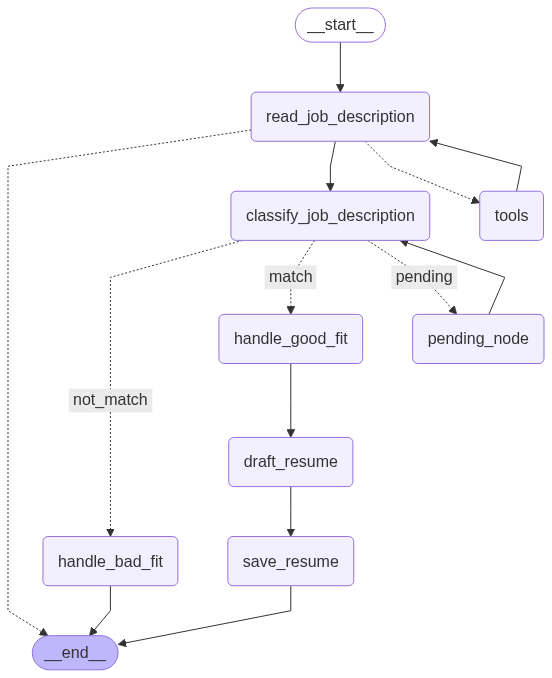
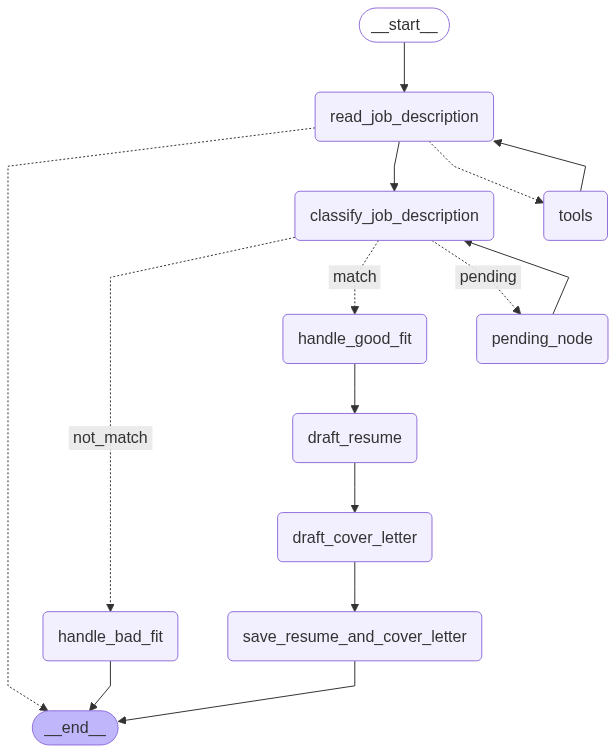
add cover letter drafting, remove markdownify mcp client connection

diff --git a/agents/job_finder.py b/agents/job_finder.py
@@ -43,6 +43,7 @@ class JobState(TypedDict):
     job_description: Optional[str]
     is_match: Optional[bool]
     resume_draft: Optional[str]
+    cover_letter_draft: Optional[str]
     messages: Annotated[list[AnyMessage], add_messages]
 
 
@@ -145,50 +146,94 @@ async def route_job(state: JobState) -> str:
 async def draft_resume(state: JobState, llm: ChatOpenAI, resume_text: str):
     """Draft a Modification of Provided Resume for the Specific Job Description."""
 
-    print(f"Drafting a custom resume for the job seeker based on the job description and provided resume content.")
-    job_description = state["job_description"]
+    if 'resume_draft' not in state:
+        print(f"Drafting a custom resume for the job seeker based on the job description and provided resume content.")
+        job_description = state["job_description"]
 
-    prompt = f"""
-        You are an experienced job placement recruiter.  You are provided with a specific job description, and a job seeker's starting resume.  Make modifications to tailor the provided resume content with skills or interests that better match the provided job description.
+        prompt = f"""
+            You are an experienced job placement recruiter.  You are provided with a specific job description, and a job seeker's starting resume.  Make modifications to tailor the provided resume content with skills or interests that better match the provided job description.
+            
+            Job Description: {job_description}
+            Resume Content: {resume_text}
+
+            The final answer is the tailored resume.  Return only the final answer.\n\n\n\n
+        """
+
+        messages = [HumanMessage(content=prompt)]
+        response = await llm.ainvoke(messages)
+
+        if response.content:
+            return {
+                "resume_draft": response.content.lstrip("```markdown\n").rstrip("\n```"),
+            }
         
-        Job Description: {job_description}
-        Resume Content: {resume_text}
-
-        The final answer is the tailored resume.  Return only the final answer.\n\n\n\n
-    """
-
-    messages = [HumanMessage(content=prompt)]
-    response = await llm.ainvoke(messages)
-
-    if response.content:
-        return {
-            "resume_draft": response.content.lstrip("```markdown\n").rstrip("\n```"),
-        }
+        else:
+            return {
+                "messages": [response]
+            }
     
     else:
-        return {
-            "messages": [response]
-        }
+        return state
     
 
-async def save_resume(state: JobState):
-    """Save the Drafted Resume for Job Seeker for Use Later."""
+async def draft_cover_letter(state: JobState, llm: ChatOpenAI, resume_text: str):
+    """Draft a Modification of Provided Resume for the Specific Job Description."""
 
-    if 'resume_draft' in state:
-
-        id_run = state["id_run"]
-        job_url = state["job_url"]
+    if 'cover_letter_draft' not in state and 'resume_draft' in state:
+        print(f"Drafting a custom cover letter for the job seeker based on the job description and provided resume content.")
+        job_description = state["job_description"]
         resume_draft = state["resume_draft"]
 
-        # Save the draft resume to a file (converted to a PDF) and with a reference to the job URL
-        print(f"Saving the draft resume for the job seeker to apply to the job at {job_url}.")
+        prompt = f"""
+            You are a job seeker very interested in the job you are applying to.  
+            You are provided with a specific job description, 
+            You are provided with a resume that is tailored to that job description. 
+            Create a cover letter tailored for applying to this job.
+            
+            Job Description: {job_description}
+            Resume Content: {resume_draft}
 
-        if not os.path.isdir('resumes'):
-            os.mkdir('resumes')
+            The final answer is the cover letter.  Return only the final answer.\n\n\n\n
+        """
 
-        md2pdf(f"resumes/{id_run}.pdf", md_content=resume_draft)
+        messages = [HumanMessage(content=prompt)]
+        response = await llm.ainvoke(messages)
 
-        return {}
+        if response.content:
+            return {
+                "cover_letter_draft": response.content.lstrip("```markdown\n").rstrip("\n```"),
+            }
+        
+        else:
+            return {
+                "messages": [response]
+            }
+    
+    else:
+        return state
+
+
+async def save_resume_and_cover_letter(state: JobState):
+    """Save the Drafted Resume for Job Seeker for Use Later."""
+
+    id_run = state["id_run"]
+    job_url = state["job_url"]
+    resume_draft = state["resume_draft"]
+    cover_letter_draft = state["cover_letter_draft"]
+
+    # Save the draft resume to a file (converted to a PDF) and with a reference to the job URL
+    print(f"Saving the draft resume and draft cover letter for the job seeker to apply to the job at {job_url}.")
+
+    if not os.path.isdir('resumes'):
+        os.mkdir('resumes')
+
+    if not os.path.isdir('resumes_cover_letters'):
+        os.mkdir('resumes_cover_letters')
+
+    md2pdf(f"resumes/{id_run}.pdf", md_content=resume_draft)
+    md2pdf(f"resumes_cover_letters/{id_run}.pdf", md_content=cover_letter_draft)
+
+    return {}
 
 
 def create_job_graph(llm_with_tools: ChatOpenAI, tools: List[BaseTool], resources_dict: Dict[str,str], prompts: List[HumanMessage]) -> StateGraph:
@@ -209,7 +254,8 @@ def create_job_graph(llm_with_tools: ChatOpenAI, tools: List[BaseTool], resource
     builder.add_node("handle_bad_fit", handle_bad_fit)
     builder.add_node("handle_good_fit", handle_good_fit)
     builder.add_node("draft_resume", partial(draft_resume, llm=llm_with_tools, resume_text=resources_dict["resume_full"]))
-    builder.add_node("save_resume", save_resume)
+    builder.add_node("draft_cover_letter", partial(draft_cover_letter, llm=llm_with_tools, resume_text=resources_dict["resume_full"]))
+    builder.add_node("save_resume_and_cover_letter", save_resume_and_cover_letter)
 
     ###  Define The Job Graph Routing Logic ###
     builder.add_edge(START, "read_job_description")
@@ -229,13 +275,16 @@ def create_job_graph(llm_with_tools: ChatOpenAI, tools: List[BaseTool], resource
     )
     builder.add_edge("handle_bad_fit", END)
     builder.add_edge("handle_good_fit", "draft_resume")
-    
+    builder.add_edge("draft_resume", "draft_cover_letter")
+
+
     # connect back up the pending node
     builder.add_edge("pending_node", "classify_job_description")
 
     # TODO: maybe need to make a create PDF tool from content?
-    builder.add_edge("draft_resume", "save_resume")
-    builder.add_edge("save_resume", END)
+    builder.add_edge("draft_cover_letter", "save_resume_and_cover_letter")
+
+    builder.add_edge("save_resume_and_cover_letter", END)
 
 
     checkpointer = InMemorySaver()
@@ -267,18 +316,17 @@ async def get_model_with_tools():
             },
 
             # MCP Server for Markdownify-MCP
-            "markdownify": {
-                "command": "node",
-                "args": [
-                    "markdownify-mcp/dist/index.js"
-                ],
-                "env": {
-                    #By default, the server will use the default install location of `uv`
-                    #"UV_PATH": "/path/to/uv"
-                },
-                "transport": "stdio"
-            }
-
+            #"markdownify": {
+            #    "command": "node",
+            #    "args": [
+            #        "markdownify-mcp/dist/index.js"
+            #    ],
+            #    "env": {
+            #        #By default, the server will use the default install location of `uv`
+            #        #"UV_PATH": "/path/to/uv"
+            #    },
+            #    "transport": "stdio"
+            #}
         }
     )
 
@@ -286,9 +334,10 @@ async def get_model_with_tools():
 
     # get the tools, prompts, and resources from the connected MCP servers for the MCP Client
     tools_r1_stdio = await client.get_tools(server_name="r1_stdio")         # get the tools from the r1_stdio-MCP server
-    tools_markdownify = await client.get_tools(server_name="markdownify")   # get the tools from the Markdownify-MCP server
+    #tools_markdownify = await client.get_tools(server_name="markdownify")   # get the tools from the Markdownify-MCP server
 
-    tools = tools_r1_stdio + tools_markdownify                              # combine the set of tools from the 2 MCP servers
+    #tools = tools_r1_stdio + tools_markdownify                              # combine the set of tools from the 2 MCP servers
+    tools = tools_r1_stdio
 
     resources_resume_full = await client.get_resources(server_name="r1_stdio", uris=["resume://full"])
     resources_resume_software = await client.get_resources(server_name="r1_stdio", uris=["resume://software"])
